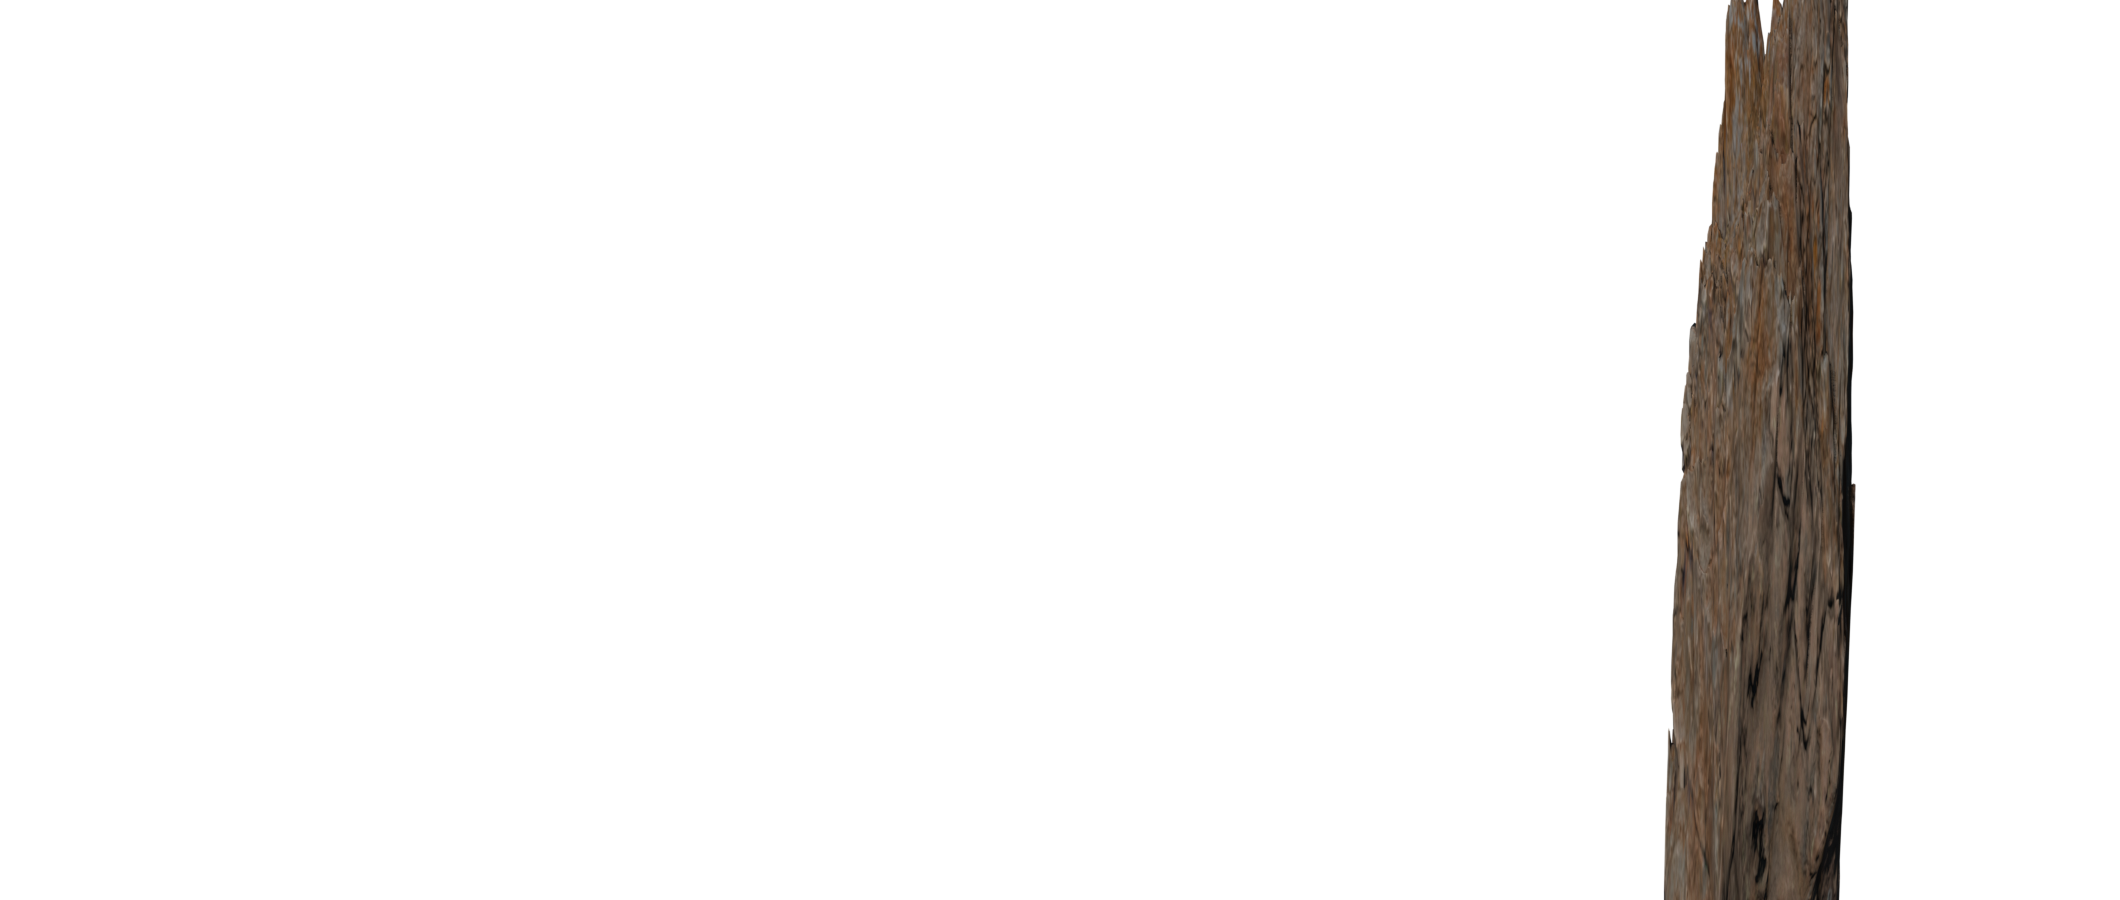
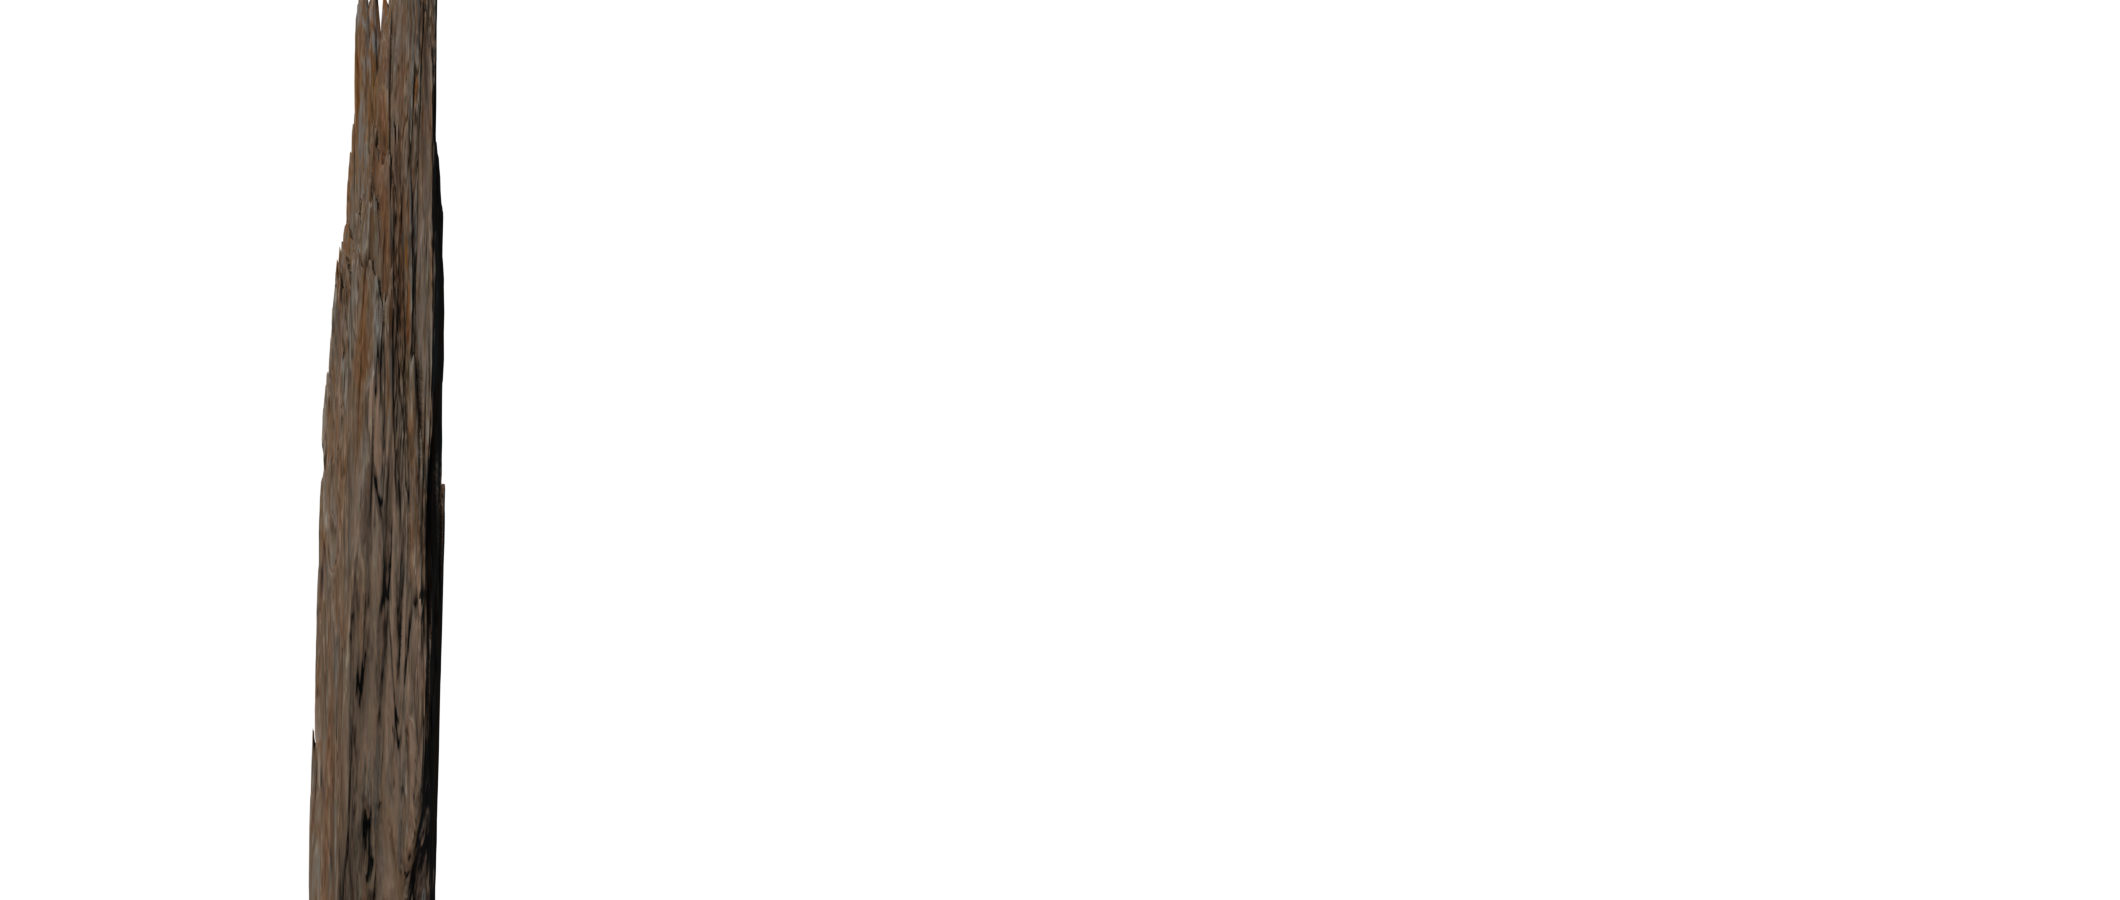
D-154: every world furnishes its own doorway and parcel stand
Brian found the crew door and parcel spot clickable but invisible in
pack worlds - no scene ever drew the door (hover.ts admitted it: a hit
rectangle over bare scenery), and the parcel spot had no standing asset
anywhere. Now the app draws both from each world's OWN theme slots on
the dynamic layer (the crate/signpost precedent), so the furniture
takes every level's palette - built-in or pack. Crates stack on the
stand's deck. doorBox/parcelsBox move to shared: the occlusion checker
reads the same boxes and refuses a strip over either (found live: Pine
Reach's legally-placed menhir sat square over the parcel spot the
checker never knew). Pine Reach re-cut v6: menhir to the left quarter,
checker-clean under the grown rules, separation 17.4 held.

1521+181 green (+3 checker tests), typecheck clean.

Changed region(s): [[0.7783, 0.0, 0.9028, 1.0], [0.1245, 0.0, 0.2179, 1.0]]

diff --git a/web/src/world/WorldCanvas.tsx b/web/src/world/WorldCanvas.tsx
@@ -173,6 +173,37 @@ function drawCrate(g: Graphics, T: Theme, x: number, y: number): void {
 }
 
 /**
+ * The crew doorway, in the theme's own timbers and stone — every world gets
+ * a visible way in. Until D-154 this was a hit rectangle over bare scenery
+ * in every world whose art did not happen to paint one (hover.ts's own
+ * comment: the only way to discover it was to click the wall).
+ */
+function drawDoor(g: Graphics, T: Theme, b: Box): void {
+  g.rect(b.x + 4, b.y + b.h - 3, b.w - 8, 3).fill(T.stoneDark);
+  g.rect(b.x + 6, b.y, b.w - 12, 6).fill(T.woodDark);
+  g.rect(b.x + 6, b.y, b.w - 12, 2).fill({ color: T.rockLight, alpha: 0.5 });
+  g.rect(b.x + 6, b.y + 4, 5, b.h - 7).fill(T.wood);
+  g.rect(b.x + b.w - 11, b.y + 4, 5, b.h - 7).fill(T.wood);
+  g.rect(b.x + 11, b.y + 6, b.w - 22, b.h - 9).fill(T.void);
+  g.rect(b.x + 11, b.y + 6, 2, b.h - 9).fill(T.rockDark);
+  g.rect(b.x + b.w - 13, b.y + 6, 2, b.h - 9).fill(T.rockDark);
+  g.rect(b.x + b.w - 19, b.y + 18, 4, 6).fill(T.flame);
+  g.rect(b.x + b.w - 18, b.y + 20, 2, 2).fill(T.flameCore);
+}
+
+/**
+ * The parcel stand: a low pallet marking where deliveries land, so the pile
+ * is a place even while nothing waits. Crates stack on its deck.
+ */
+function drawParcelStand(g: Graphics, T: Theme, b: Box): void {
+  g.rect(b.x + 1, b.y + b.h - 5, b.w - 2, 3).fill(T.wood);
+  g.rect(b.x + 1, b.y + b.h - 5, b.w - 2, 1).fill({ color: T.rockLight, alpha: 0.6 });
+  g.rect(b.x + 3, b.y + b.h - 2, 3, 2).fill(T.woodDark);
+  g.rect(b.x + Math.floor(b.w / 2) - 1, b.y + b.h - 2, 2, 2).fill(T.woodDark);
+  g.rect(b.x + b.w - 6, b.y + b.h - 2, 3, 2).fill(T.woodDark);
+}
+
+/**
  * Where the art comes from. The frames built into the app answer immediately;
  * the spritesheet replaces them once it has loaded. Both can hand back the
  * same frames in an agentling's colour, or as flat shapes for the outline.
@@ -748,6 +779,13 @@ export function WorldCanvas({
           const dt = Math.min(ticker.deltaMS, 100) / 1000;
           ambience.tick(ambientLayer, dt, t);
 
+          // App-owned furniture, first onto the dynamic layer so signs,
+          // crates and hover rings paint over it. Drawn from the theme's own
+          // slots, so every world — built-in or pack — furnishes its own
+          // doorway and parcel stand in its own palette (D-154).
+          drawDoor(dynamic, T, door);
+          drawParcelStand(dynamic, T, pBox);
+
           // The drift (v2, D-151): one camera, every layer at its own rate —
           // whole pixels for the quantized medium, raw for the smooth one,
           // the map's displacement scaled by the same camera. A world with
@@ -873,7 +911,8 @@ export function WorldCanvas({
               .rect(EXIT_X - 64, GROUND_Y - 26, 30, 26)
               .fill({ color: T.flameCore, alpha: 0.1 + 0.06 * Math.sin(t * 2.5) });
             waiting.slice(0, 4).forEach((_, i) => {
-              drawCrate(dynamic, T, EXIT_X - 62 + (i % 2) * 14, GROUND_Y - 10 - Math.floor(i / 2) * 10);
+              // Stacked on the stand's deck rather than the bare ground.
+              drawCrate(dynamic, T, EXIT_X - 62 + (i % 2) * 14, GROUND_Y - 14 - Math.floor(i / 2) * 10);
             });
             if (hover?.kind === 'parcels') outlineBox(dynamic, pBox, T.hover);
           }

diff --git a/server/src/plates.ts b/server/src/plates.ts
@@ -8,7 +8,9 @@ import {
   STATION_BASE_X,
   STATION_SPACING,
   WORLD_WIDTH,
+  doorBox,
   packRasterFiles,
+  parcelsBox,
   type LevelPack,
   type PackProblem,
 } from '@agentlings/shared';
@@ -292,8 +294,17 @@ function checkOcclusionPlacement(
   const bandTop = (groundY - CREW_H) * scale;
   const bandBottom = groundY * scale;
 
+  // The doorway and the parcel stand are clickable furniture the app draws
+  // itself (D-154); a strip over either hides a control. Checked within each
+  // box's own height, like the stands — an arch may still fill the frame top.
+  const spots = [
+    { name: 'crew doorway', box: doorBox(groundY), hit: 0 },
+    { name: 'parcel stand', box: parcelsBox(groundY), hit: 0 },
+  ];
+
   for (let py = 0; py < r.h; py++) {
     const inBand = py >= bandTop && py < bandBottom;
+    const wy = py / scale;
     for (let px = 0; px < r.w; px++) {
       if (r.pixels[(py * r.w + px) * 4 + 3] < 128) continue;
       const wx = toWorldX(px);
@@ -302,6 +313,17 @@ function checkOcclusionPlacement(
       if (wx > FURNITURE_LO - margin && wx < FURNITURE_HI + margin) {
         overFurniture++;
         if (firstFurnitureX === null) firstFurnitureX = Math.round(wx);
+      }
+      for (const spot of spots) {
+        const { box } = spot;
+        if (
+          wx > box.x - margin &&
+          wx < box.x + box.w + margin &&
+          wy >= box.y &&
+          wy < box.y + box.h
+        ) {
+          spot.hit++;
+        }
       }
       if (!inBand) continue;
       for (const at of STAND_POSITIONS) {
@@ -325,6 +347,15 @@ function checkOcclusionPlacement(
       `occlusion strip "${strip.file}" covers the standing place at x ${at} — the crew ` +
         'work there, and a strip above the sprites would hide them for good',
     );
+  }
+  for (const spot of spots) {
+    if (spot.hit > 0) {
+      error(
+        `occlusion strip "${strip.file}" is opaque over the ${spot.name} ` +
+          `(x ${spot.box.x}–${spot.box.x + spot.box.w}${overscan ? ', widened by the drift margin' : ''}, ` +
+          `${spot.hit} pixels) — it is clickable, and a strip above the sprites would hide it`,
+      );
+    }
   }
 }
 

diff --git a/web/src/world/hover.ts b/web/src/world/hover.ts
@@ -1,4 +1,5 @@
-import { EXIT_X, STATION_BASE_X, STATION_SPACING } from '@agentlings/shared';
+import { STATION_BASE_X, STATION_SPACING } from '@agentlings/shared';
+import type { WorldBox } from '@agentlings/shared';
 
 /**
  * What is clickable in the world, and where.
@@ -10,12 +11,7 @@ import { EXIT_X, STATION_BASE_X, STATION_SPACING } from '@agentlings/shared';
  * also the part worth testing without standing up a renderer.
  */
 
-export interface Box {
-  x: number;
-  y: number;
-  w: number;
-  h: number;
-}
+export type Box = WorldBox;
 
 /** What the pointer is over. Null when it is over scenery, which is most of it. */
 export type HoverTarget =
@@ -43,13 +39,11 @@ export const OUTLINE_OFFSETS: readonly (readonly [number, number])[] = [
 
 /**
  * The doorway the crew leave and come back through, which opens the crew
- * panel. Until now this was a hit rectangle over scenery with no visual
- * feedback of any kind — the only way to discover it was to click the wall
- * and find out.
+ * panel, and the parcel stand beside it. Geometry lives in shared now
+ * (D-154): the server's occlusion checker reads the same boxes, so a
+ * strip can never legally hide what is clickable here.
  */
-export function doorBox(groundY: number): Box {
-  return { x: EXIT_X - 34, y: groundY - 58, w: 68, h: 58 };
-}
+export { doorBox, parcelsBox } from '@agentlings/shared';
 
 /**
  * A work station's signpost: post, board and pennant. Slots are fixed, so the
@@ -58,13 +52,4 @@ export function doorBox(groundY: number): Box {
 export function stationBox(slot: number, groundY: number): Box {
   const x = STATION_BASE_X + slot * STATION_SPACING;
   return { x: x - 12, y: groundY - 53, w: 28, h: 53 };
-}
-
-/**
- * The parcel pile beside the exit — deliveries waiting for review. Ends
- * exactly where the doorway's box begins, so the two never fight for the
- * pointer.
- */
-export function parcelsBox(groundY: number): Box {
-  return { x: EXIT_X - 66, y: groundY - 44, w: 32, h: 44 };
 }

diff --git a/server/src/plates.test.ts b/server/src/plates.test.ts
@@ -212,6 +212,33 @@ describe('checkPlates v2 — the occlusion strip', () => {
     expect(errors(withStrip())[0]).toMatch(/standing place at x 80/);
   });
 
+  // The doorway and the parcel stand are clickable furniture the app draws
+  // itself (D-154) — found live when Pine Reach's legally-placed menhir sat
+  // square over the parcel spot the checker never knew about.
+  it('refuses opacity over the crew doorway', () => {
+    writeFileSync(
+      path.join(dir, 'near.png'),
+      pngA(1000, 450, (x, y) => (x === 940 && y === 350 ? [0x05050a, 255] : [0, 0])),
+    );
+    expect(errors(withStrip())[0]).toMatch(/over the crew doorway/);
+  });
+
+  it('refuses opacity over the parcel stand', () => {
+    writeFileSync(
+      path.join(dir, 'near.png'),
+      pngA(1000, 450, (x, y) => (x === 890 && y === 360 ? [0x05050a, 255] : [0, 0])),
+    );
+    expect(errors(withStrip())[0]).toMatch(/over the parcel stand/);
+  });
+
+  it('leaves the frame above the doorway free — an arch may span the top', () => {
+    writeFileSync(
+      path.join(dir, 'near.png'),
+      pngA(1000, 450, (x, y) => (x === 940 && y === 300 ? [0x05050a, 255] : [0, 0])),
+    );
+    expect(errors(withStrip())).toEqual([]);
+  });
+
   it('widens the forbidden span by the drift margin only when the strip drifts', () => {
     // World x 210 sits between the spawn box and the signposts: legal for a
     // pinned strip, inside the widened span for a drifting one.

diff --git a/packages/shared/src/scene.ts b/packages/shared/src/scene.ts
@@ -29,6 +29,30 @@ export const PLATE_OVERSCAN = 60;
 /** How many plates a backdrop may stack — ~21 MB decoded at 2×, the checked budget. */
 export const MAX_PLATES = 3;
 
+/** An axis-aligned box in world units — hit zones and furniture footprints. */
+export interface WorldBox {
+  x: number;
+  y: number;
+  w: number;
+  h: number;
+}
+
+/**
+ * The crew doorway beside the exit and the parcel stand beside it. One
+ * source for the client (hit zone + drawn furniture) and the checker (an
+ * occlusion strip may not cover either) — the same geometry drifting apart
+ * across the two would give a prop that highlights somewhere other than
+ * where it is clickable, or a checker blessing a strip that hides the door.
+ */
+export function doorBox(groundY: number): WorldBox {
+  return { x: EXIT_X - 34, y: groundY - 58, w: 68, h: 58 };
+}
+
+/** The parcel stand — deliveries pile here. Ends where the doorway begins. */
+export function parcelsBox(groundY: number): WorldBox {
+  return { x: EXIT_X - 66, y: groundY - 44, w: 32, h: 44 };
+}
+
 /**
  * Per-theme palette, every slot drawn from the DB32 master ramp; geometry
  * stays identical across all four.

diff --git a/web/public/packs/pine-reach/dress_pine_reach.py b/web/public/packs/pine-reach/dress_pine_reach.py
@@ -67,8 +67,12 @@ MID_PIECES = [
     ("boulder_01_LOD1", 58, 11.0, -0.3, 2.2, 230),
 ]
 NEAR_PIECES = [
-    # The standing stone, right quarter: wx 800-900 -> X 1.96 at d 14.
-    ("boulder_01_LOD1", 14, 1.96, 0, (0.31, 0.31, 3.4), 90),
+    # The standing stone, LEFT quarter (v6): the right spot the checker once
+    # allowed sits over the parcel stand and doorway it now protects (D-154).
+    # Legal there: wx < 200 whole-column, clear of the spawn band 41-119 in
+    # the crew band. Target wx 125-193: X -1.91 at d 14, presented width
+    # 1.83*0.21 = 0.38 m.
+    ("boulder_01_LOD1", 14, -1.91, 0, (0.21, 0.21, 3.4), 90),
 ]
 
 
